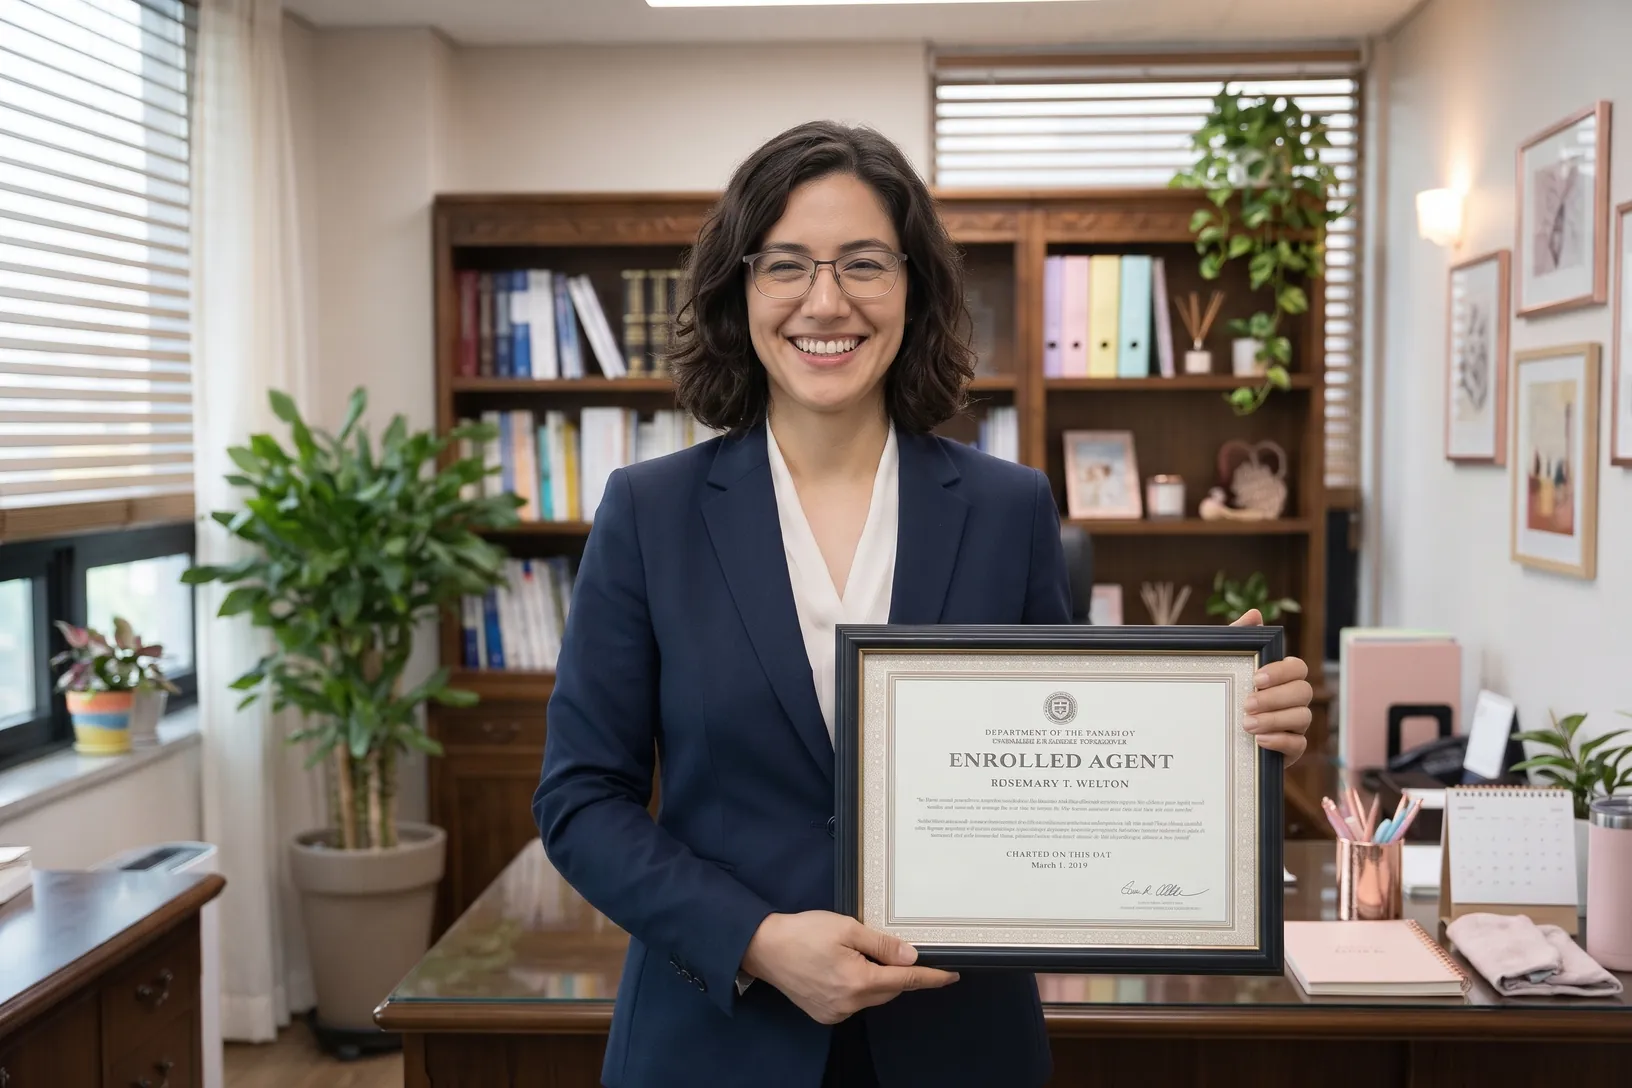
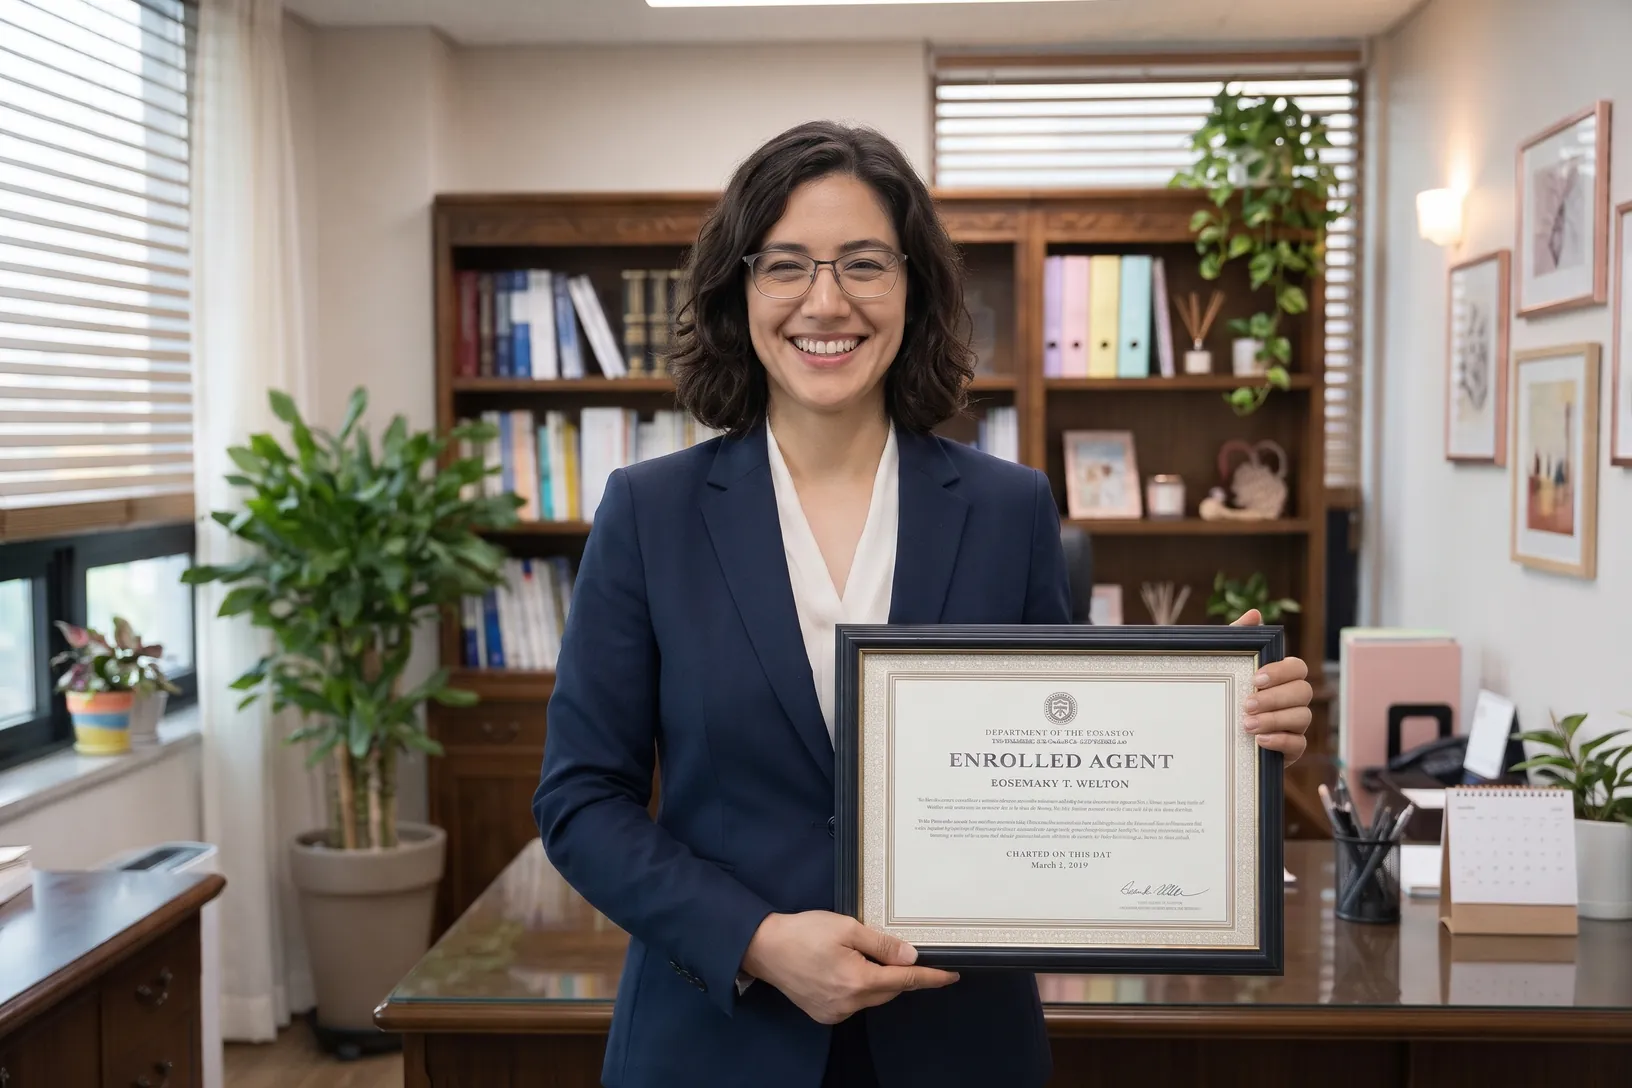
EA landing hero: swap first photo to EA_hero_female (boss 2026-10-28)

diff --git a/ea/index.html b/ea/index.html
@@ -245,8 +245,8 @@
          고 보고). ✅ 사진을 다시 바꿀 때는 반드시 이 v= 숫자를 «하나씩 올릴 것». -->
     <div class="hero-demo" aria-hidden="true" id="hero-rot">
       <!-- 2026-10-28 boss: new EA-certificate photo first; photo 4 removed -->
-      <img class="hero-photo rot-active" src="/hero-rot-6.webp?v=1"
-           srcset="/hero-rot-6.webp?v=1 816w, /hero-rot-6-2x.webp?v=1 1632w"
+      <img class="hero-photo rot-active" src="/hero-rot-6.webp?v=2"
+           srcset="/hero-rot-6.webp?v=2 816w, /hero-rot-6-2x.webp?v=2 1632w"
            sizes="(max-width:900px) 92vw, 60vw"
            width="816" height="544" alt="" fetchpriority="high">
       <img class="hero-photo" data-src="/hero-rot-1.webp?v=2"
